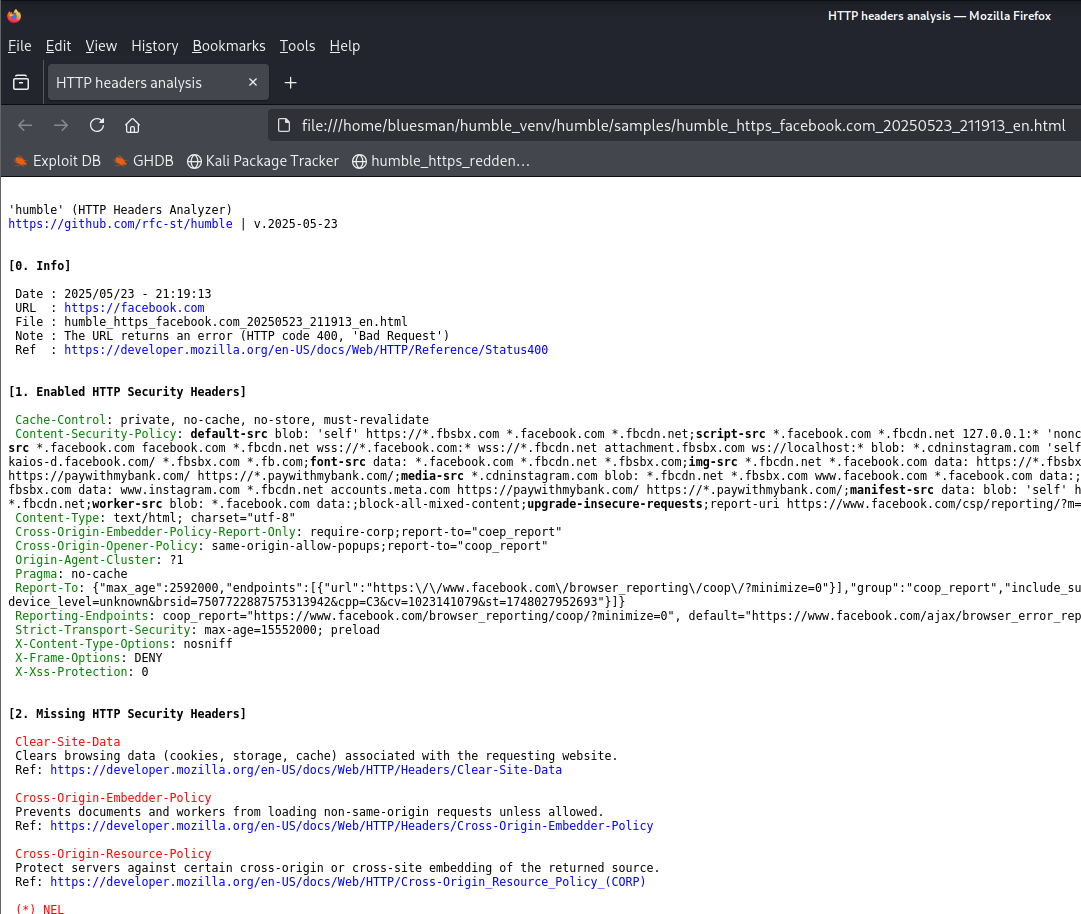
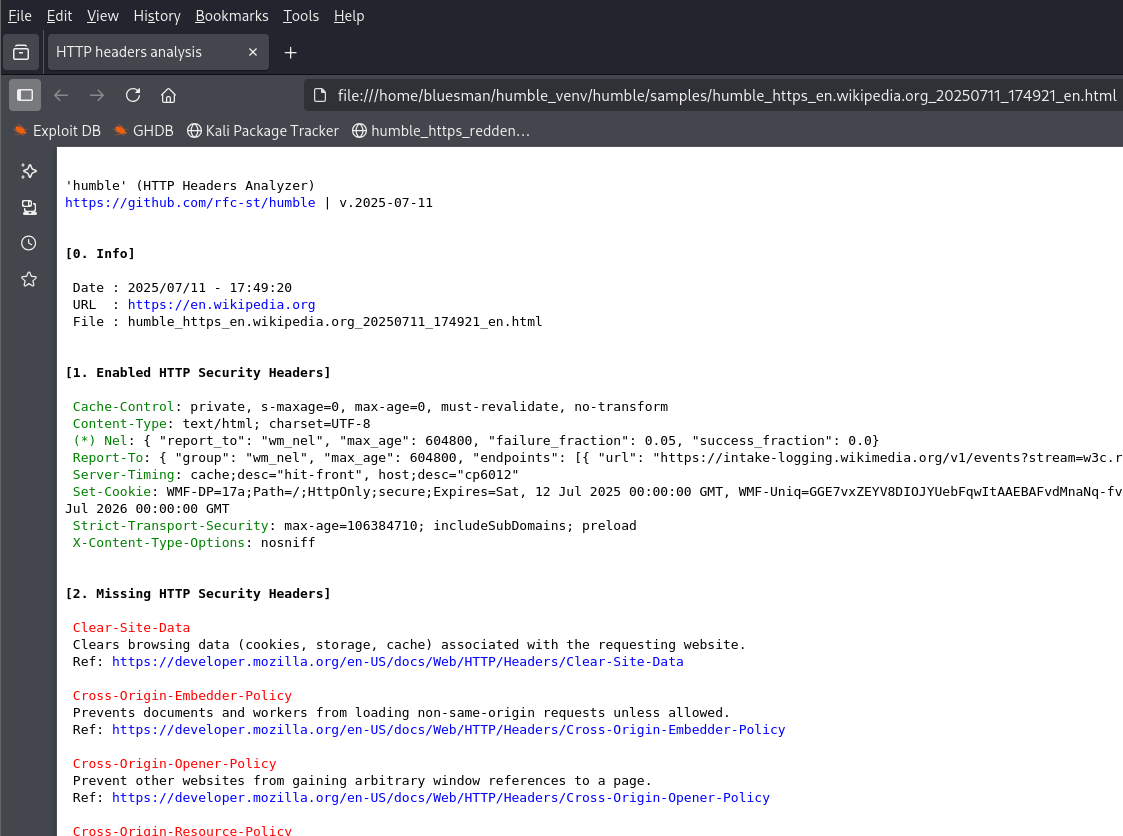
Minor: Screenshots updated

Changed region(s): [[0.0, 0.0, 1.0, 1.0], [0.7632, 0.0, 0.9769, 0.0311], [0.6716, 0.8708, 0.7021, 0.9019]]

diff --git a/samples/humble_https_en.wikipedia.org_20250711_174921_en.html b/samples/humble_https_en.wikipedia.org_20250711_174921_en.html
@@ -1,0 +1,94 @@
+<!DOCTYPE HTML><html lang="en"><head><meta http-equiv="Content-Type" content="text/html; charset=utf-8"><meta name="description" content="HTTP headers analysis of
+ https://en.wikipedia.org"><meta name="keywords" content="HTTP Headers, Analyzer, Analysis, Cybersecurity, Security-scanner, Security-Tools, Header-Parser
+"><meta name="author" content="https://github.com/rfc-st/humble | v.2025-07-11"><meta name="generator" content="https://github.com/rfc-st/humble | v.2025-07-11"><title>HTTP headers analysis
+</title><style>pre {overflow-x: auto; white-space: pre-wrap;white-space: -moz-pre-wrap; white-space: -pre-wrap;white-space: -o-pre-wrap; word-wrap: break-word; font-size: 13px;} a {color: blue; text-decoration: none;} .ok {color: green;} .header {color: #660033;} .ko {color: red;}</style></head><body><pre>
+
+'humble' (HTTP Headers Analyzer)
+<a href="https://github.com/rfc-st/humble">https://github.com/rfc-st/humble</a> | v.2025-07-11
+
+
+<strong>[0. Info]</strong><br>
+ Date : 2025/07/11 - 17:49:20
+ URL  : <a href="https://en.wikipedia.org">https://en.wikipedia.org</a><br> File : humble_https_en.wikipedia.org_20250711_174921_en.html
+
+
+<strong>[1. Enabled HTTP Security Headers]</strong><br>
+<span class='ok'> Cache-Control</span>: private, s-maxage=0, max-age=0, must-revalidate, no-transform<br><span class='ok'> Content-Type</span>: text/html; charset=UTF-8<br><span class='ok'> (*) Nel</span>: { "report_to": "wm_nel", "max_age": 604800, "failure_fraction": 0.05, "success_fraction": 0.0}<br><span class='ok'> Report-To</span>: { "group": "wm_nel", "max_age": 604800, "endpoints": [{ "url": "https://intake-logging.wikimedia.org/v1/events?stream=w3c.reportingapi.network_error&schema_uri=/w3c/reportingapi/network_error/1.0.0" }] }<br><span class='ok'> Server-Timing</span>: cache;desc="hit-front", host;desc="cp6012"<br><span class='ok'> Set-Cookie</span>: WMF-DP=17a;Path=/;HttpOnly;secure;Expires=Sat, 12 Jul 2025 00:00:00 GMT, WMF-Uniq=GGE7vxZEYV8DIOJYUebFqwItAAEBAFvdMnaNq-fvvxIHpL89kwuxcH7TaVY6KG9P;Domain=.wikipedia.org;Path=/;HttpOnly;secure;SameSite=None;Expires=Sat, 11 Jul 2026 00:00:00 GMT<br><span class='ok'> Strict-Transport-Security</span>: max-age=106384710; includeSubDomains; preload<br><span class='ok'> X-Content-Type-Options</span>: nosniff<br>
+
+<strong>[2. Missing HTTP Security Headers]</strong><br>
+<span class="ko"> Clear-Site-Data
+</span> Clears browsing data (cookies, storage, cache) associated with the requesting website.
+ Ref: <a href="https://developer.mozilla.org/en-US/docs/Web/HTTP/Headers/Clear-Site-Data">https://developer.mozilla.org/en-US/docs/Web/HTTP/Headers/Clear-Site-Data</a><br>
+<span class="ko"> Cross-Origin-Embedder-Policy
+</span> Prevents documents and workers from loading non-same-origin requests unless allowed.
+ Ref: <a href="https://developer.mozilla.org/en-US/docs/Web/HTTP/Headers/Cross-Origin-Embedder-Policy">https://developer.mozilla.org/en-US/docs/Web/HTTP/Headers/Cross-Origin-Embedder-Policy</a><br>
+<span class="ko"> Cross-Origin-Opener-Policy
+</span> Prevent other websites from gaining arbitrary window references to a page.
+ Ref: <a href="https://developer.mozilla.org/en-US/docs/Web/HTTP/Headers/Cross-Origin-Opener-Policy">https://developer.mozilla.org/en-US/docs/Web/HTTP/Headers/Cross-Origin-Opener-Policy</a><br>
+<span class="ko"> Cross-Origin-Resource-Policy
+</span> Protect servers against certain cross-origin or cross-site embedding of the returned source.
+ Ref: <a href="https://developer.mozilla.org/en-US/docs/Web/HTTP/Cross-Origin_Resource_Policy_(CORP)">https://developer.mozilla.org/en-US/docs/Web/HTTP/Cross-Origin_Resource_Policy_(CORP)</a><br>
+<span class="ko"> Content-Security-Policy
+</span> Detect and mitigate Cross Site Scripting (XSS) and data injection attacks, among others.
+ Ref: <a href="https://developer.mozilla.org/en-US/docs/Web/HTTP/Headers/Content-Security-Policy">https://developer.mozilla.org/en-US/docs/Web/HTTP/Headers/Content-Security-Policy</a><br>
+<span class="ko"> (*) Permissions-Policy
+</span> Previously called "Feature-Policy", allow and deny the use of browser features.
+ Ref: <a href="https://scotthelme.co.uk/goodbye-feature-policy-and-hello-permissions-policy/">https://scotthelme.co.uk/goodbye-feature-policy-and-hello-permissions-policy/</a><br>
+<span class="ko"> Referrer-Policy
+</span> Controls how much referrer information should be included with requests.
+ Ref: <a href="https://scotthelme.co.uk/a-new-security-header-referrer-policy/">https://scotthelme.co.uk/a-new-security-header-referrer-policy/</a><br>
+<span class="ko"> X-Permitted-Cross-Domain-Policies
+</span> Limit which data external resources (e.g. Adobe Flash/PDF documents), can access on the domain.
+ Ref: <a href="https://owasp.org/www-project-secure-headers/#div-headers">https://owasp.org/www-project-secure-headers/#div-headers</a><br>
+<span class="ko"> X-Frame-Options
+</span> Prevents clickjacking attacks, limiting sources of embedded content.
+ Ref: <a href="https://developer.mozilla.org/en-US/docs/Web/HTTP/Headers/X-Frame-Options">https://developer.mozilla.org/en-US/docs/Web/HTTP/Headers/X-Frame-Options</a><br>
+
+<strong>[3. Fingerprint HTTP Response Headers]</strong><br>
+ These headers can expose IPs, hostnames, software or their versions:
+
+<span class="ko"> Server (Generic HTTP Server/Content Delivery Network)
+</span> Value: 'mw-web.eqiad.main-74fdfd557b-2wn9z'
+
+
+<strong>[4. Deprecated HTTP Response Headers/Protocols and Insecure Values]</strong><br>
+ The following headers/protocols are deprecated or their values may be considered unsafe:
+
+<span class="ko"> Cache-Control (Recommended Values)
+</span> Enable 'no-cache' and 'no-store' if there are sensitive data in the URL analyzed.
+ Ref: <a href="https://developer.mozilla.org/en-US/docs/Web/HTTP/Headers/Cache-Control">https://developer.mozilla.org/en-US/docs/Web/HTTP/Headers/Cache-Control</a><br>
+<span class="ko"> Report-To (Deprecated Header)
+</span> This header is deprecated. Use instead "Reporting-Endpoints".
+ Ref: <a href="https://developer.mozilla.org/en-US/docs/Web/HTTP/Headers/Report-To">https://developer.mozilla.org/en-US/docs/Web/HTTP/Headers/Report-To</a><br>
+<span class="ko"> Server-Timing (Potentially Unsafe Header)
+</span> This header should not expose sensitive application or infrastructure information.
+ Ref: <a href="https://developer.mozilla.org/en-US/docs/Web/HTTP/Headers/Server-Timing">https://developer.mozilla.org/en-US/docs/Web/HTTP/Headers/Server-Timing</a><br>
+<span class="ko"> Vary (Potentially Unsafe Header)
+</span> The values of this header may expose others, facilitating attacks if user input is accepted.
+ Ref: <a href="https://developer.mozilla.org/en-US/docs/Web/HTTP/Headers/Vary">https://developer.mozilla.org/en-US/docs/Web/HTTP/Headers/Vary</a><br> Ref: <a href="https://www.yeswehack.com/fr/learn-bug-bounty/http-header-exploitation">https://www.yeswehack.com/fr/learn-bug-bounty/http-header-exploitation</a><br>
+
+<strong>[5. Empty HTTP Response Headers Values]</strong><br>
+ Empty HTTP headers (and are therefore considered disabled):
+
+ Accept-Ch
+
+
+<strong>[6. Browser Compatibility for Enabled HTTP Security Headers]</strong><br>
+<span class="header"> Cache-Control: </span><a href="https://caniuse.com/?search=Cache-Control">https://caniuse.com/?search=Cache-Control</a><br><span class="header"> Content-Type: </span><a href="https://caniuse.com/?search=Content-Type">https://caniuse.com/?search=Content-Type</a><br><span class="header"> NEL: </span><a href="https://caniuse.com/?search=NEL">https://caniuse.com/?search=NEL</a><br><span class="header"> Report-To: </span><a href="https://caniuse.com/?search=Report-To">https://caniuse.com/?search=Report-To</a><br><span class="header"> Server-Timing: </span><a href="https://caniuse.com/?search=Server-Timing">https://caniuse.com/?search=Server-Timing</a><br><span class="header"> Set-Cookie: </span><a href="https://caniuse.com/?search=Set-Cookie">https://caniuse.com/?search=Set-Cookie</a><br><span class="header"> Strict-Transport-Security: </span><a href="https://caniuse.com/?search=Strict-Transport-Security">https://caniuse.com/?search=Strict-Transport-Security</a><br><span class="header"> Vary: </span><a href="https://caniuse.com/?search=Vary">https://caniuse.com/?search=Vary</a><br><span class="header"> X-Content-Type-Options: </span><a href="https://caniuse.com/?search=X-Content-Type-Options">https://caniuse.com/?search=X-Content-Type-Options</a><br>
+
+<strong>[7. Analysis Results]</strong><br>
+ Done in 0.24 seconds! (changes with respect to the last analysis in parentheses)
+
+ Enabled headers:               8 (First Analysis)
+
+ Missing headers:               9 (First Analysis)
+ Fingerprint headers:           1 (First Analysis)
+ Deprecated/Insecure headers:   4 (First Analysis)
+ Empty headers:                 1 (First Analysis)
+ Findings to review:           15 (First Analysis)
+
+ Analysis Grade:               D (Review 'Deprecated/Insecure headers')
+
+ '(*)' meaning:                Experimental HTTP response directive or header
+ '(*)' ref:                    <a href="https://mdn.io/Experimental_deprecated_obsolete">https://mdn.io/Experimental_deprecated_obsolete</a><br>
+</pre><br></body></html>

diff --git a/humble.py b/humble.py
@@ -158,7 +158,7 @@ URL_STRING = ('rfc-st', ' URL  : ', 'https://caniuse.com/?')
 XML_STRING = ('Ref: ', 'Value: ', 'Valor: ')
 
 current_time = datetime.now().strftime("%Y/%m/%d - %H:%M:%S")
-local_version = datetime.strptime('2025-07-07', '%Y-%m-%d').date()
+local_version = datetime.strptime('2025-07-11', '%Y-%m-%d').date()
 
 
 class SSLContextAdapter(requests.adapters.HTTPAdapter):

diff --git a/README.md b/README.md
@@ -6,7 +6,7 @@
 <a target="_blank" href="https://devguide.python.org/versions/" title="Minimum Python version required to run this tool"><img src="https://img.shields.io/badge/Python-%3E%3D3.11-blue?labelColor=343b41"></a>
 <a target="_blank" href="LICENSE" title="License of this tool"><img src="https://img.shields.io/badge/License-MIT-blue.svg?labelColor=343b41"></a>
 <a target="_blank" href="https://github.com/rfc-st/humble/releases" title="Latest release of this tool"><img src="https://img.shields.io/github/v/release/rfc-st/humble?display_name=release&label=Latest%20Release&labelColor=343b41"></a>
-<a target="_blank" href="https://github.com/rfc-st/humble/commits/master" title="Latest commit of this tool"><img src="https://img.shields.io/badge/Latest_Commit-2025--07--07-blue.svg?labelColor=343b41"></a>
+<a target="_blank" href="https://github.com/rfc-st/humble/commits/master" title="Latest commit of this tool"><img src="https://img.shields.io/badge/Latest_Commit-2025--07--11-blue.svg?labelColor=343b41"></a>
 <a target="_blank" href="https://pkg.kali.org/pkg/humble" title="Official tool in Kali Linux"><img src="https://img.shields.io/badge/Kali%20Linux-Tool-blue?labelColor=343b41"></a>
 <br />
 <a target="_blank" href="#" title="Featured on:"><img src="https://img.shields.io/badge/Featured%20on:-343b41"></a>
@@ -150,19 +150,19 @@ Options used: -f -g -p -U -s --hints
 <img src="https://github.com/rfc-st/humble/blob/master/screenshots/humble_pdf_s.PNG" alt="(Windows) - Detailed analysis saved as PDF">
 </p>
 <br />
-.: (Linux) - Detailed analysis saved as HTML. <a href="https://htmlpreview.github.io/?https://github.com/rfc-st/humble/blob/master/samples/humble_https_facebook.com_20250523_211913_en.html">Example.</a><br />
+.: (Linux) - Detailed analysis saved as HTML. <a href="https://htmlpreview.github.io/?https://github.com/rfc-st/humble/blob/master/samples/humble_https_en.wikipedia.org_20250711_174921_en.html">Example.</a><br />
 <p></p>
 <p align="center">
 <img src="https://github.com/rfc-st/humble/blob/master/screenshots/humble_html_s.PNG" alt="(Linux) - Detailed analysis saved as HTML">
 </p>
 <br />
-.: (Linux) - Brief analysis saved as JSON. <a href="http://jsonblob.com/1365739609765634048">Example.</a><br />
+.: (Linux) - Brief analysis saved as JSON. <a href="https://jsonblob.com/1393259081506152448">Example.</a><br />
 <p></p>
 <p align="center">
 <img src="https://github.com/rfc-st/humble/blob/master/screenshots/humble_json_s.PNG" alt="(Linux) - Brief analysis saved as JSON">
 </p>
 <br />
-.: (Linux) - Brief analysis saved as XML. <a href="https://github.com/rfc-st/humble/raw/master/samples/humble_https_facebook.com_20250425_181644_en.xml">Example.</a><br />
+.: (Linux) - Brief analysis saved as XML. <a href="https://github.com/rfc-st/humble/raw/master/samples/humble_https_en.wikipedia.org_20250711_175924_en.xml">Example.</a><br />
 <p></p>
 <p align="center">
 <img src="https://github.com/rfc-st/humble/blob/master/screenshots/humble_xml_s.PNG" alt="(Linux) - Brief analysis saved as XML">
